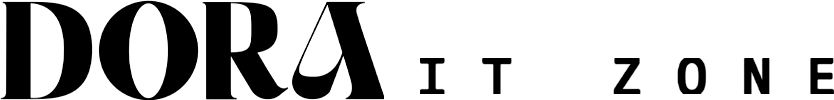
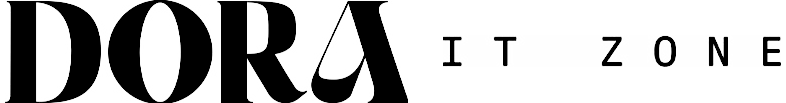
feat: align Dora IT Zone fonts, shift Back to Top right with subtle blink animation

diff --git a/src/components/layout/Footer.tsx b/src/components/layout/Footer.tsx
@@ -214,38 +214,46 @@ export default function Footer() {
       <div className="bg-[#046F47] text-white py-5 px-4 sm:px-6 lg:px-8 border-t border-emerald-800">
         <div className="max-w-7xl mx-auto flex flex-col lg:flex-row items-center justify-between gap-4 text-xs text-emerald-100 text-center lg:text-left">
           {/* Left: Copyright */}
-          <p className="shrink-0">© {new Date().getFullYear()} MP Hospital and Trauma Centre (Formerly Maxx Hospital), Jabalpur. All Rights Reserved.</p>
+          <p className="shrink-0 text-center lg:text-left">
+            © {new Date().getFullYear()} MP Hospital and Trauma Centre (Formerly Maxx Hospital), Jabalpur. All Rights Reserved.
+          </p>
 
-          {/* Center: Legal & Back to Top */}
-          <div className="flex items-center gap-6">
-            <Link href="/privacy-policy" className="hover:text-white transition-colors">
-              Privacy
-            </Link>
-            <Link href="/terms-condition" className="hover:text-white transition-colors">
-              Terms
-            </Link>
+          {/* Center: Legal Links */}
+          <div className="flex items-center justify-between lg:justify-center w-full lg:w-auto gap-6 px-1">
+            <div className="flex items-center gap-5">
+              <Link href="/privacy-policy" className="hover:text-white transition-colors">
+                Privacy
+              </Link>
+              <Link href="/terms-condition" className="hover:text-white transition-colors">
+                Terms
+              </Link>
+            </div>
+
+            {/* Mobile Only: Back to Top shifted right as per red arrow with subtle blinking pulse */}
             <button
               onClick={scrollToTop}
-              className="flex items-center gap-1.5 text-white hover:text-red-200 font-bold cursor-pointer transition-colors"
+              className="lg:hidden inline-flex items-center gap-1.5 px-3 py-1 rounded-full bg-white/10 hover:bg-white/20 text-white font-bold cursor-pointer border border-white/20 shadow-xs transition-all active:scale-95 animate-pulse"
+              title="Back to Top"
             >
               <span>Back to Top</span>
-              <ArrowUp className="w-3.5 h-3.5" />
+              <ArrowUp className="w-3.5 h-3.5 text-emerald-300" />
             </button>
           </div>
 
-          {/* Right End: Tech by Dora IT Zone (White BG Pill + High-Contrast Jet Black Logo) */}
-          <div className="flex items-center justify-center lg:justify-end shrink-0">
+          {/* Right End: Tech by Dora IT Zone & Desktop Back to Top */}
+          <div className="flex items-center justify-center lg:justify-end gap-3.5 shrink-0">
+            {/* White BG Pill with Perfectly Aligned Fonts */}
             <a
               href="https://doraitzone.com"
               target="_blank"
               rel="noopener noreferrer"
-              className="inline-flex items-center gap-2.5 bg-white hover:bg-neutral-50 text-neutral-900 px-4 py-1.5 rounded-full shadow-md border border-white hover:shadow-lg transition-all whitespace-nowrap group"
+              className="inline-flex items-center gap-2 bg-white hover:bg-neutral-50 text-neutral-900 px-3.5 py-1.5 rounded-full shadow-md border border-white hover:shadow-lg transition-all whitespace-nowrap group"
               title="Dora IT Zone - Digital Marketing & Technology Solutions, Jabalpur"
             >
-              <span className="text-[11px] text-neutral-700 font-bold tracking-wide">
+              <span className="text-[11px] font-extrabold uppercase tracking-wider text-neutral-800 leading-none">
                 tech by
               </span>
-              <div className="relative h-4.5 w-[150px] shrink-0">
+              <div className="relative h-4.5 w-[142px] shrink-0">
                 <Image
                   src="/images/dora-it-zone-single-line-dark.png"
                   alt="Dora IT Zone"
@@ -254,6 +262,16 @@ export default function Footer() {
                 />
               </div>
             </a>
+
+            {/* Desktop Only: Back to Top (Shifted Right with subtle blinking pulse) */}
+            <button
+              onClick={scrollToTop}
+              className="hidden lg:inline-flex items-center gap-1.5 px-3 py-1.5 rounded-full bg-white/10 hover:bg-white/20 text-white font-bold cursor-pointer border border-white/20 shadow-xs transition-all active:scale-95 animate-pulse"
+              title="Back to Top"
+            >
+              <span>Back to Top</span>
+              <ArrowUp className="w-3.5 h-3.5 text-emerald-300" />
+            </button>
           </div>
         </div>
       </div>
